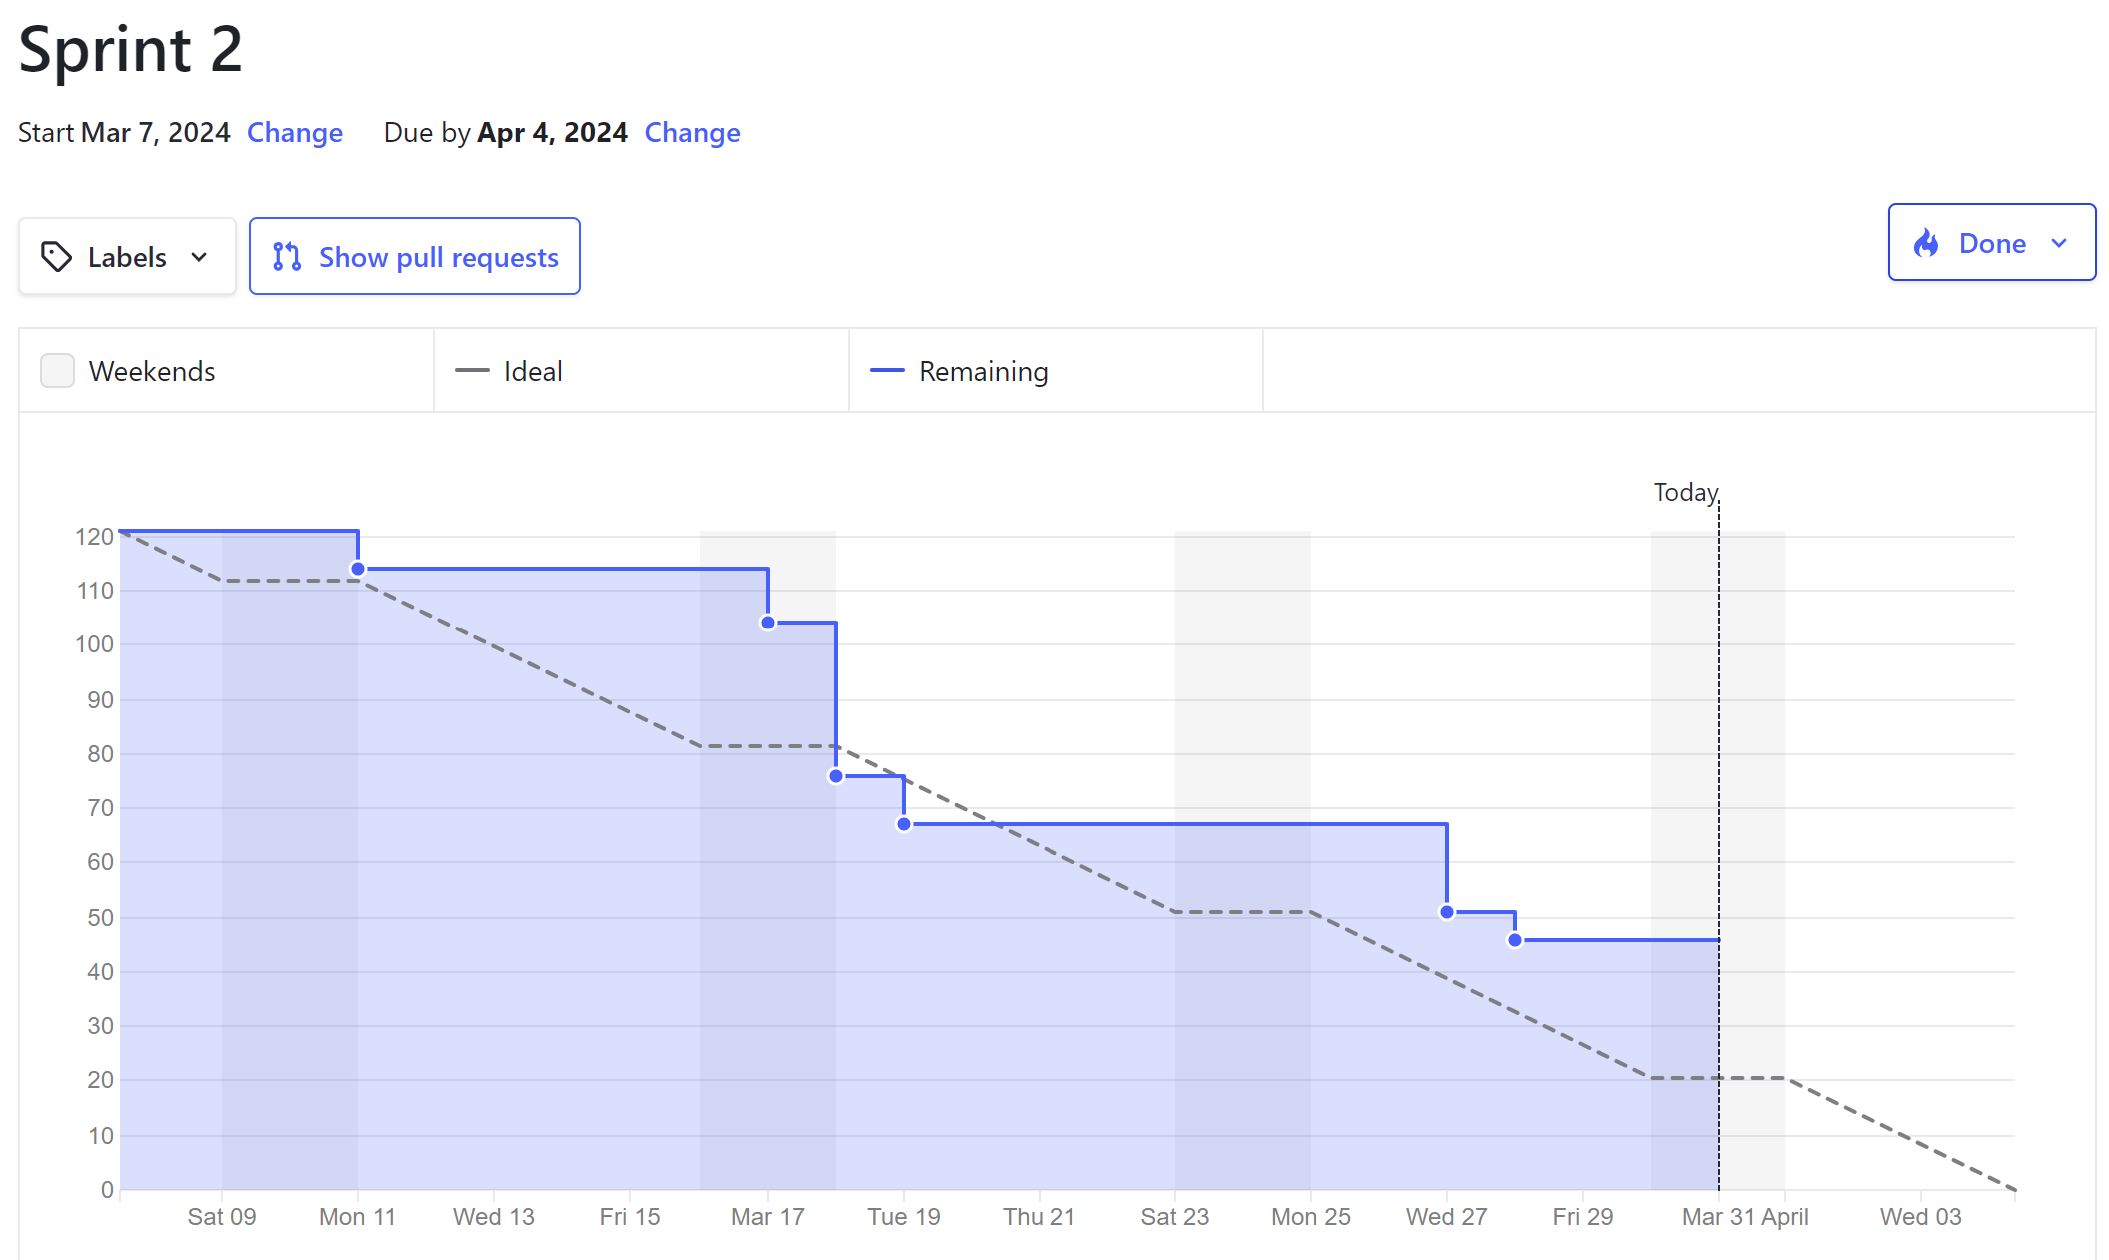
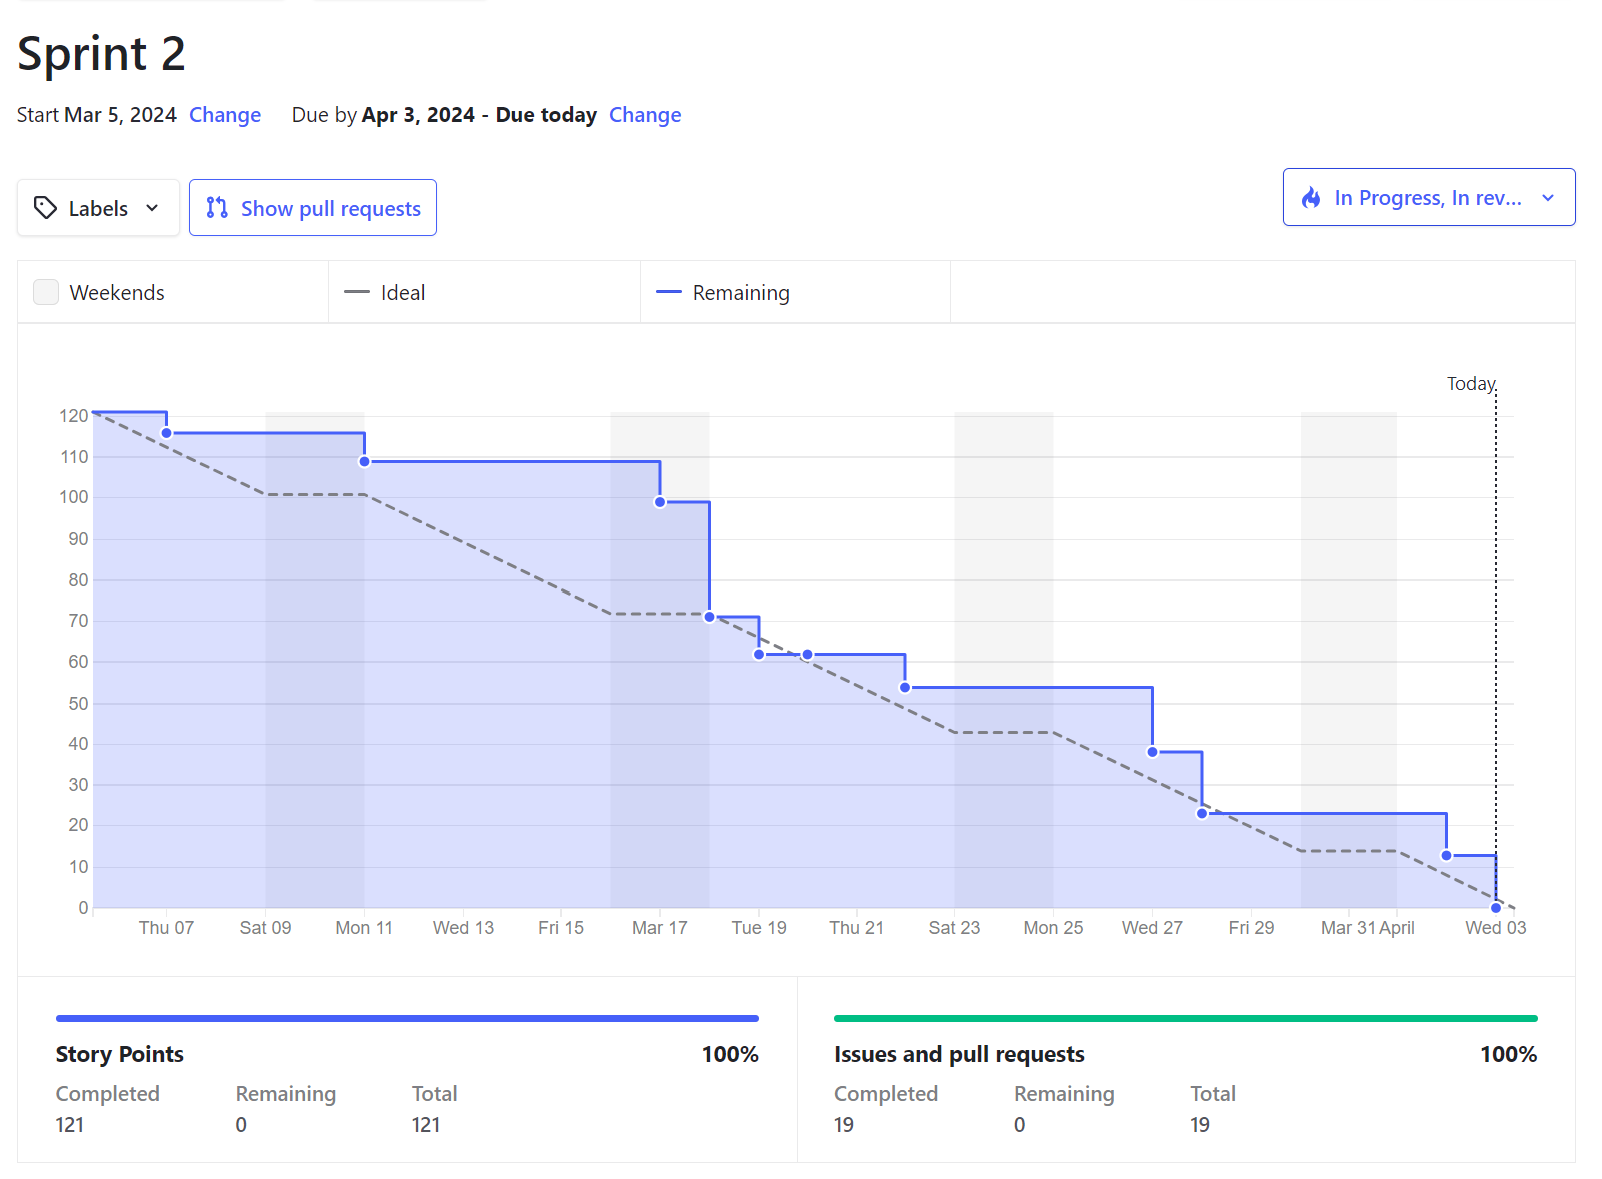
docs: crear un informe técnico titulado “Métricas de Proceso Ágil y Recursos
Actualización de gráficos a fecha final de Sprint y correción de dos enlaces a imágenes

diff --git a/docs/sprint2/Métricas de Proceso Ágil y Recursos.md b/docs/sprint2/Métricas de Proceso Ágil y Recursos.md
@@ -69,7 +69,7 @@ De esta forma, y tras hablarlo con el Product Owner, hemos decidido incluir todo
 
 Gráfico con TODOS los pipelines e incluyendo Pull Requests del Sprint 1.
 ![Gráfico Burn Down de Sprint 1 del proyecto Pipeline ToDo](/docs/static/Sp1_BurnDown_Chart_6Feb7Mar_Todos_Pipelines.png)
-![Captura con porcentajes de Puntos de Historia Sp1](/docs/static/Sp1_Porcentaje_puntos_historia_tareas_y_pull_req_completados_Epics_ToDo.png)
+![Captura con porcentajes de Puntos de Historia Sp1](/docs/static/Sp1_porc_punt_hists_tareas_y_PR_completados_EpicsToDo.png)
 
 #### Análisis e intrepretación del gráfico
 
@@ -154,12 +154,12 @@ El total de puntos de historia entregados/completados, en `Done`, en este Sprint
 
 Si para emitir el informe establecemos el Pipeline final sólo en `ToDo`, como sería de esperar, el porcentaje de puntos de historia, Tareas/Issues y `Pull Request` entregados para este primer Sprint del proyecto se muestra en la siguiente captura de pantalla, y habría sido de un 73% de puntos de historia entregados y del 83% de tareas y Pull Requests.
 
-![Captura con porcentajes en Sp1](/docs/static/Sp1_Porcentaje_puntos_historia_tareas_y_pull_req_completados.png)
+![Captura con porcentajes en Sp1](/docs/static/Sp1_porc_punt_hists_tareas_y_PR_completados.png)
 
 En cambio, si incluimos en el filtro del informe la fecha final del día 7/Marzo/2024 y en Pipelines todos los pipelines desde `Epics` a `Done`, debido al problema ya mencionado con esas tres tareas y la propia Épica, se obtienen los siguientes porcentajes de tareas completadas:
 
 ![Total de puntos de historia entregados en Sp1](/docs/static/Sp1_Completed_And_Percentage_Issues_Summary.png)
-![Captura con porcentajes en Sp1](/docs/static/Sp1_porcentaje_puntos_historia_tareas_y_pull_req_completados_Epics_ToDo.png)
+![Captura con porcentajes en Sp1](/docs/static/Sp1_porc_punt_hists_tareas_y_PR_completados_EpicsToDo.png)
 
 
 ## Métricas para el Sprint 2
